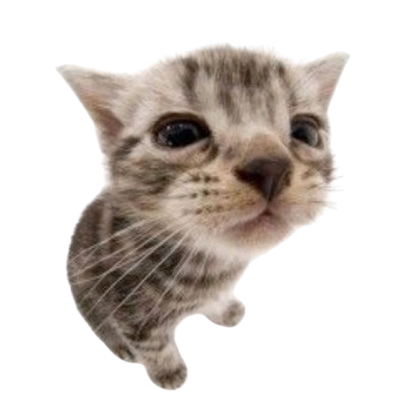
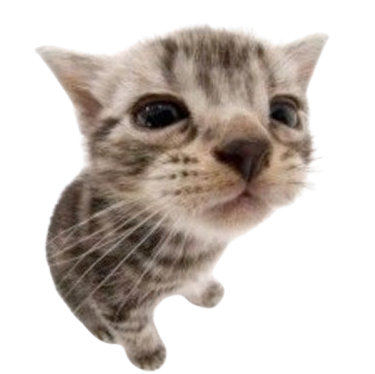
portfolio pfps hehehe

diff --git a/app/src/lib/portfolio.ts b/app/src/lib/portfolio.ts
@@ -15,7 +15,7 @@ export type PortfolioData = {
     name: string;
     pronouns: string;
     bio: string;
-    pfp: string;
+    pfp: string[];
     askMeAbout: string;
   };
   contact: {
@@ -44,4 +44,8 @@ export function getAllPortfolioItems(data: PortfolioData): FlatPortfolioProject[
       index: data.projects.length + index,
     })),
   ];
+}
+
+export function getRandomPfp(data: PortfolioData): string {
+  return data.profile.pfp[Math.floor(Math.random() * data.profile.pfp.length)];
 }
